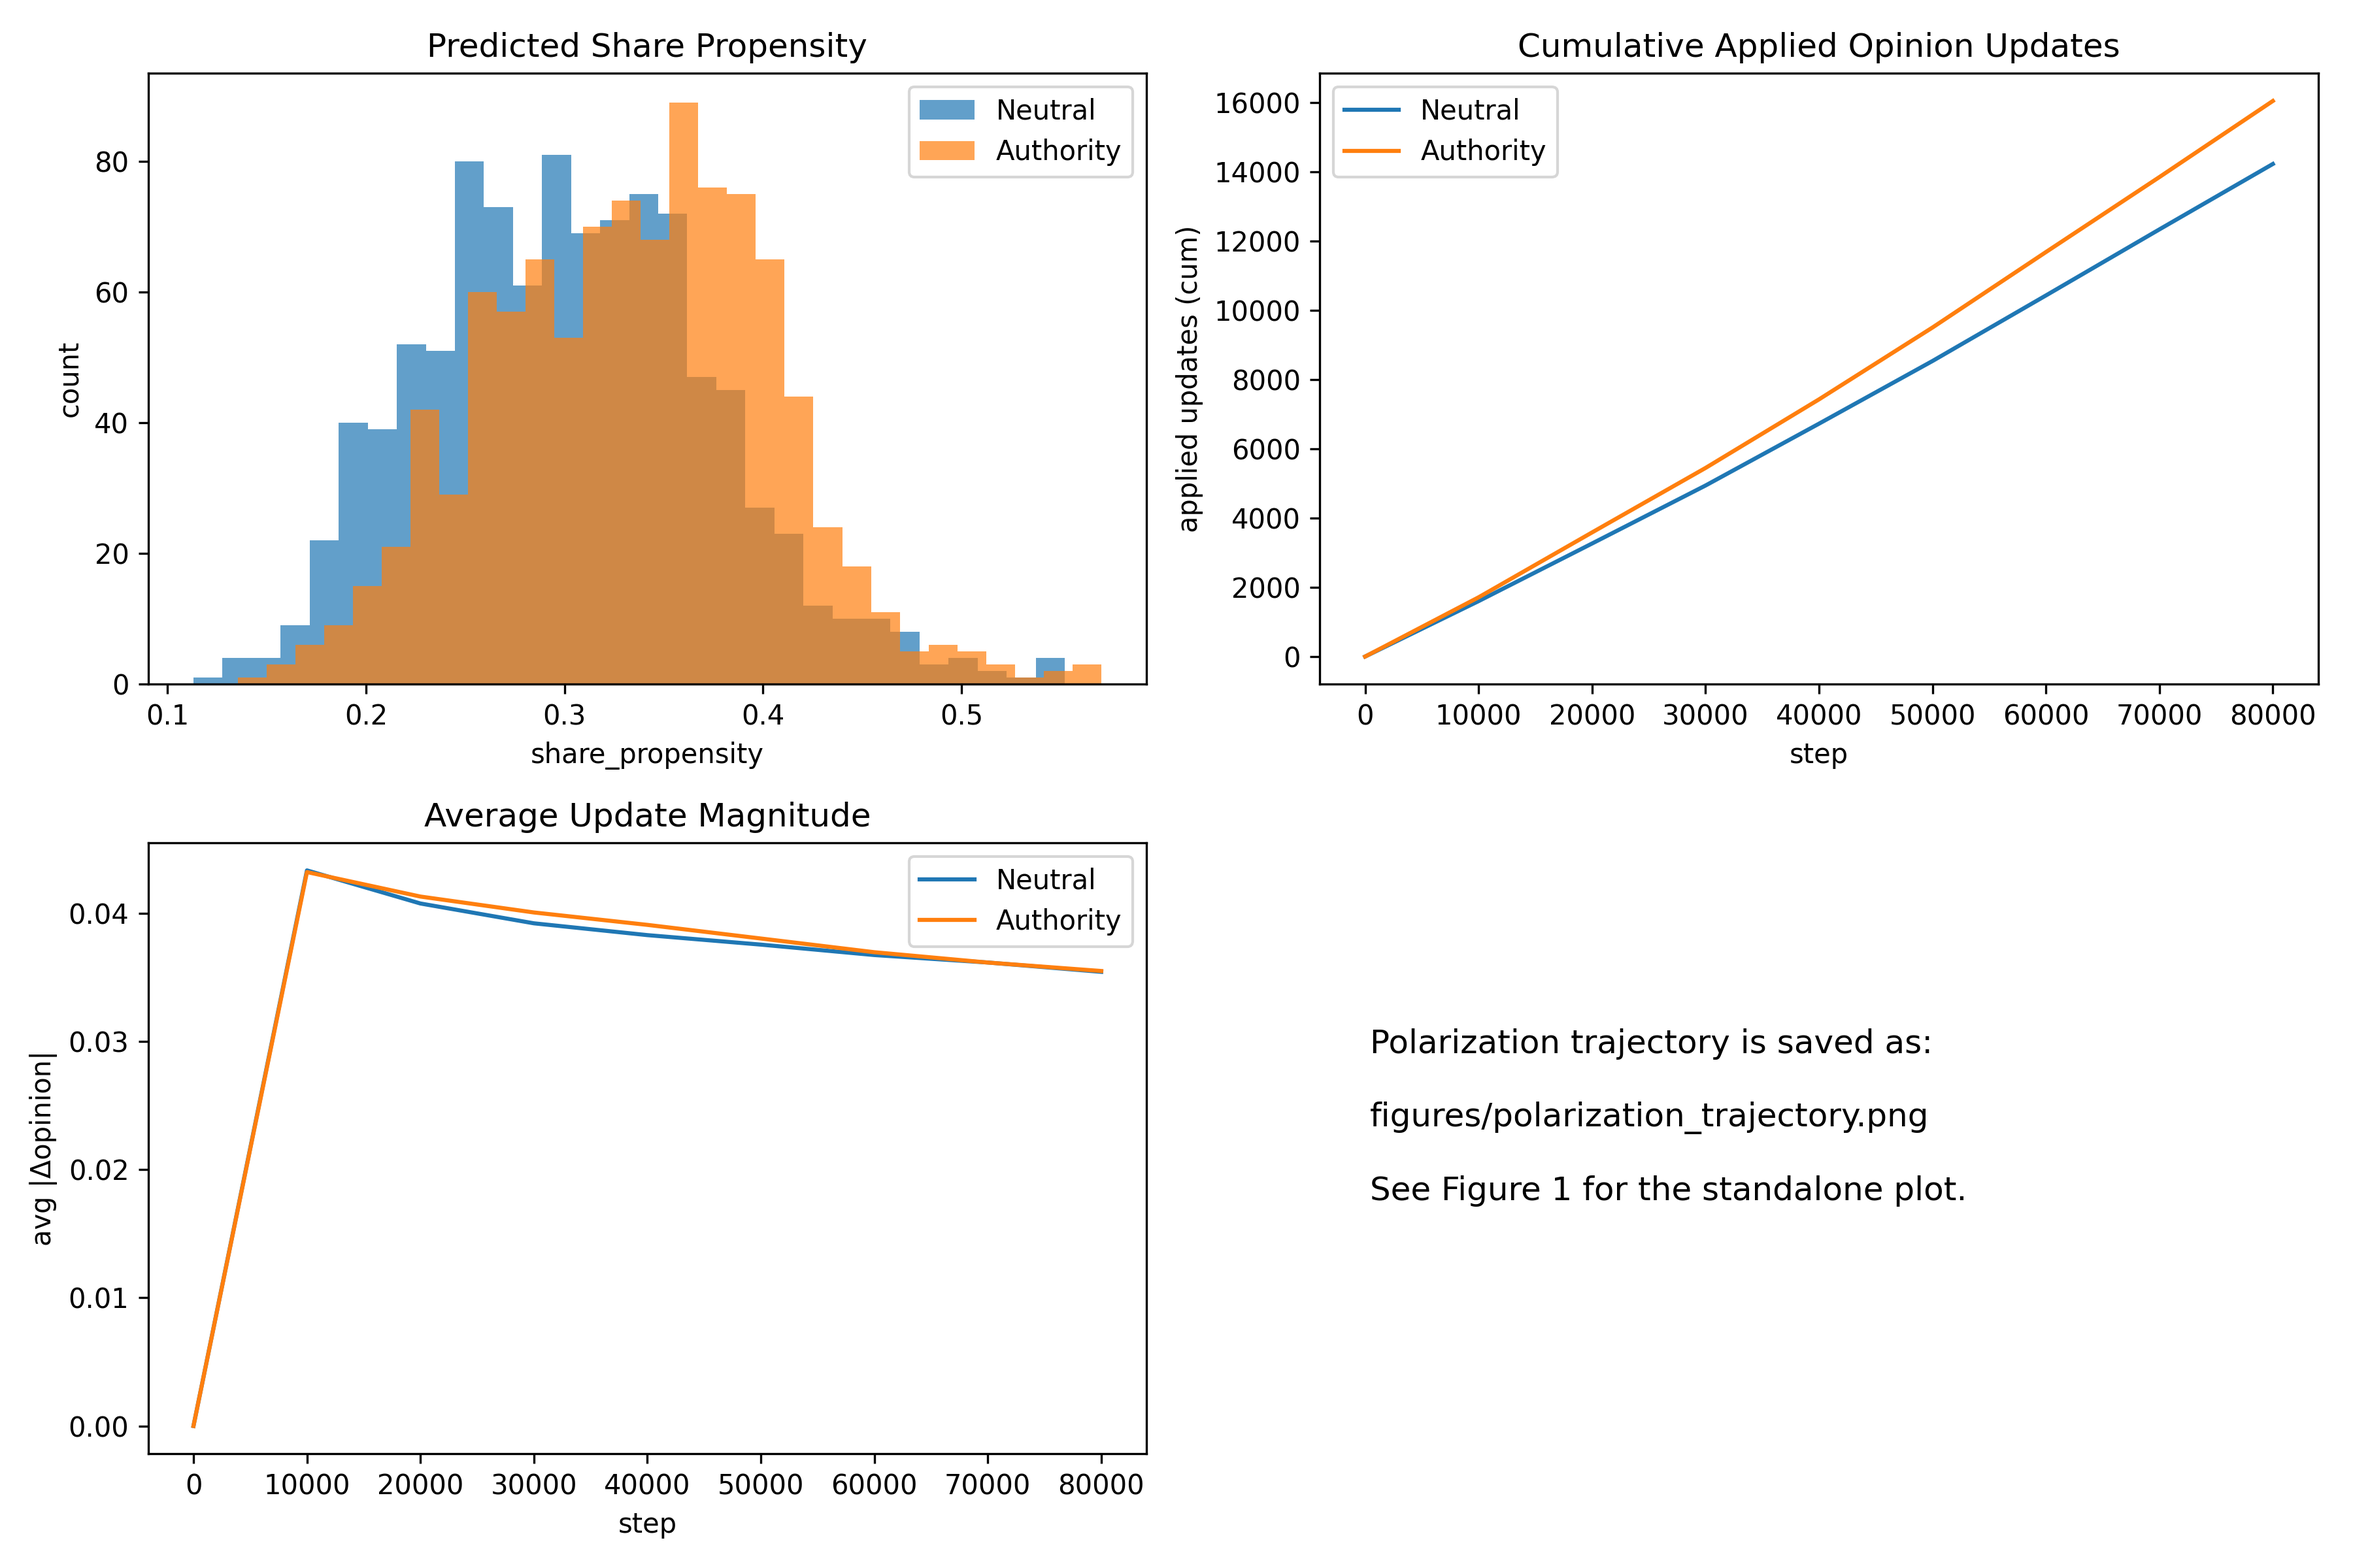
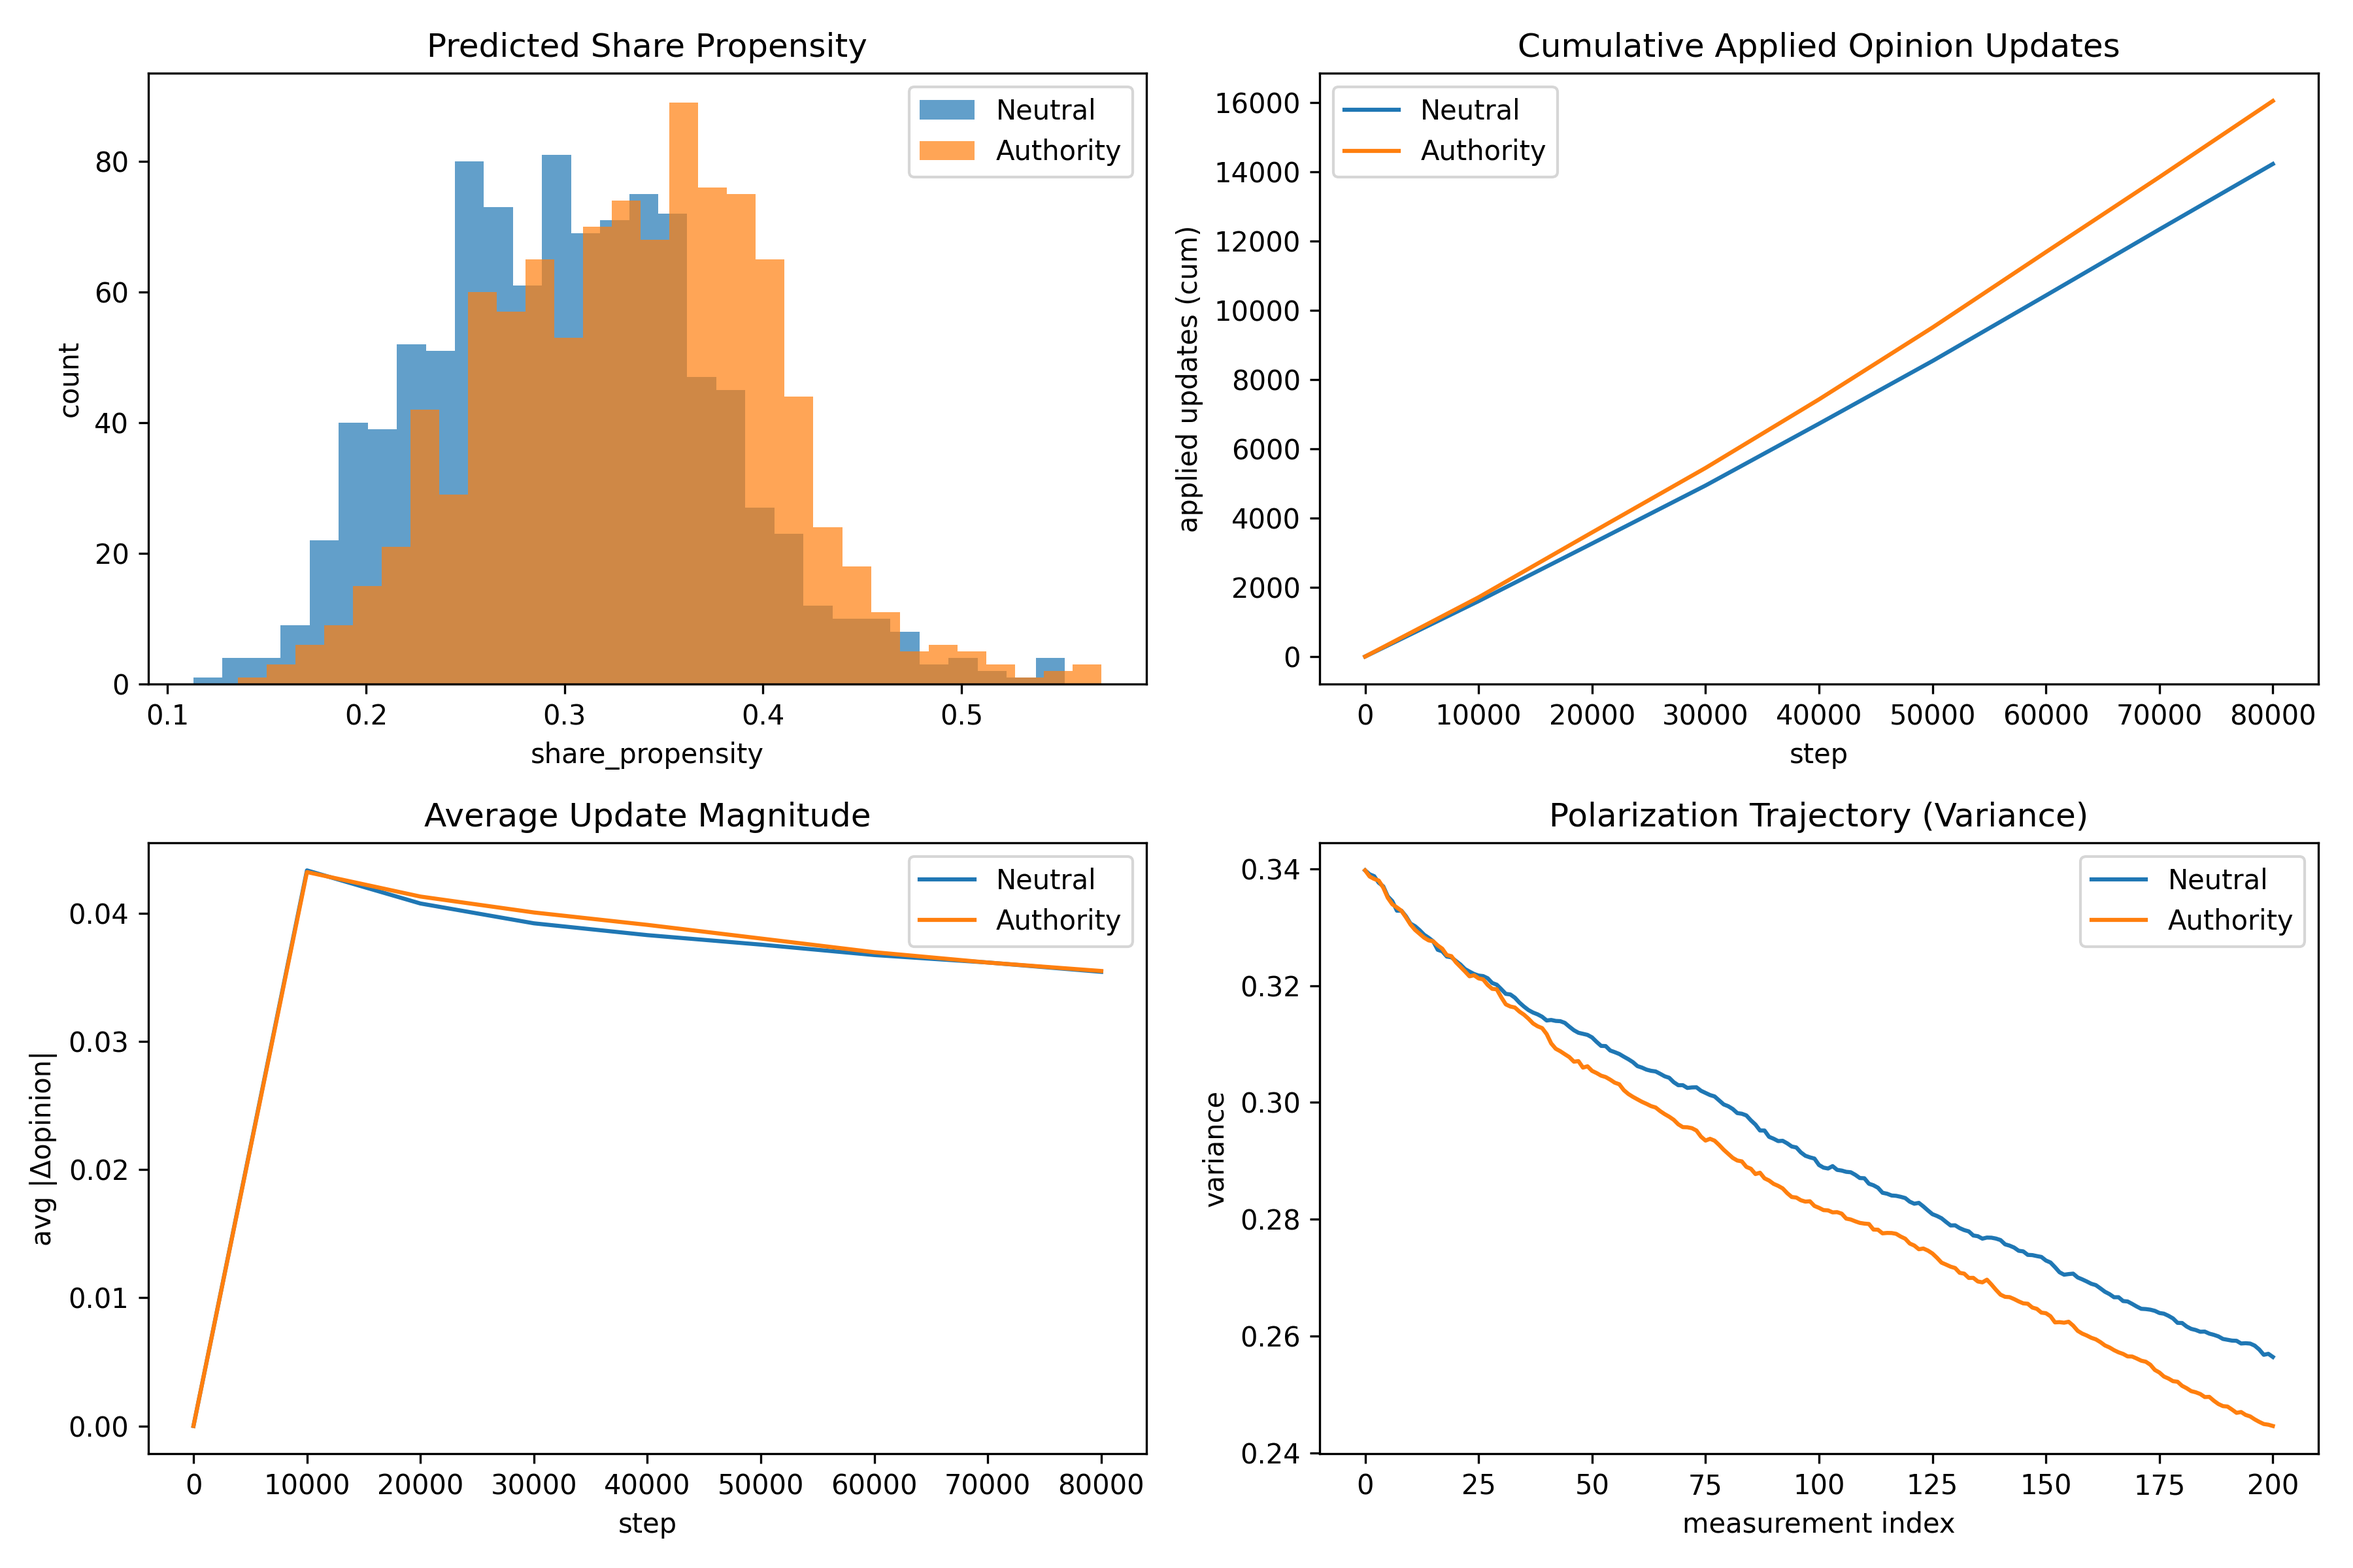
Unify results visualization and update auto-generated README

diff --git a/main.py b/main.py
@@ -64,26 +64,13 @@ def save_figures(
 ):
     os.makedirs("figures", exist_ok=True)
 
-    # -----------------------------
-    # Figure 1: Polarization trajectory (standalone)
-    # -----------------------------
-    plt.figure(figsize=(10, 5))
-    plt.plot(pol_neu, label="Neutral", linewidth=2)
-    plt.plot(pol_auth, label="Authority", linewidth=2)
-    plt.xlabel("Measurement step")
-    plt.ylabel("Polarization (variance)")
-    plt.title("Opinion Variance Over Time (Route A: Thesis-Trained Sharing)")
-    plt.legend()
-    plt.tight_layout()
-    plt.savefig("figures/polarization_trajectory.png", dpi=300)
-    plt.close()
-
-    # -----------------------------
-    # Figure 2: Mechanism diagnostics (multi-panel)
-    # -----------------------------
+    # ---------------------------------------------------------
+    # Single figure only: 2x2 mechanism diagnostics
+    # Panel D contains polarization trajectory (no standalone plot)
+    # ---------------------------------------------------------
     plt.figure(figsize=(12, 8))
 
-    # Panel A: share propensity distributions (always available)
+    # Panel A: share propensity distributions
     ax1 = plt.subplot(2, 2, 1)
     ax1.hist(shares_neu, bins=30, alpha=0.7, label="Neutral")
     ax1.hist(shares_auth, bins=30, alpha=0.7, label="Authority")
@@ -144,18 +131,14 @@ def save_figures(
             va="center",
         )
 
-    # Panel D: avoid duplicating Figure 1
+    # Panel D: Polarization trajectory (variance)
     ax4 = plt.subplot(2, 2, 4)
-    ax4.axis("off")
-    ax4.text(
-        0.05,
-        0.55,
-        "Polarization trajectory is saved as:\n\n"
-        "figures/polarization_trajectory.png\n\n"
-        "See Figure 1 for the standalone plot.",
-        fontsize=12,
-        va="center",
-    )
+    ax4.plot(pol_neu, label="Neutral")
+    ax4.plot(pol_auth, label="Authority")
+    ax4.set_title("Polarization Trajectory (Variance)")
+    ax4.set_xlabel("measurement index")
+    ax4.set_ylabel("variance")
+    ax4.legend()
 
     plt.tight_layout()
     plt.savefig("figures/mechanism_diagnostics.png", dpi=300)
@@ -222,7 +205,7 @@ def main():
     )
     G_auth, pol_auth, _, ops_auth, diag_auth = unpack_run(res_auth)
 
-    # Save figures for README
+    # Save the single combined figure
     save_figures(
         pol_neu,
         pol_auth,
@@ -254,14 +237,13 @@ def main():
         pol_auth=pol_auth,
         base_params=base_params,
         artifacts=ReadmeArtifacts(
-            fig_traj="figures/polarization_trajectory.png",
             fig_mech="figures/mechanism_diagnostics.png",
             animation="figures/authority_animation.gif",
         ),
         outpath="README.md",
     )
 
-    print("[INFO] Done. Figures saved in ./figures, GIF saved, and README.md updated.")
+    print("[INFO] Done. Figure saved in ./figures, GIF saved, and README.md updated.")
 
 
 if __name__ == "__main__":

diff --git a/utils/autoreadme.py b/utils/autoreadme.py
@@ -14,7 +14,6 @@ import numpy as np
 
 @dataclass(frozen=True)
 class ReadmeArtifacts:
-    fig_traj: str = "figures/polarization_trajectory.png"
     fig_mech: str = "figures/mechanism_diagnostics.png"
     animation: str = "figures/authority_animation.gif"
 
@@ -75,10 +74,8 @@ def write_professional_readme(
 
     timestamp = datetime.now(timezone.utc).strftime("%Y-%m-%d %H:%M UTC")
 
-    # Keep the parameters block readable + stable
     params_json = json.dumps(base_params, indent=2)
 
-    # Note: base_params["use_nn"] refers to *influence NN* (Route B), not the thesis share model.
     use_nn_flag = bool(base_params.get("use_nn", False))
     influence_line = "ON" if use_nn_flag else "OFF"
 
@@ -143,9 +140,7 @@ def write_professional_readme(
         f"**End-of-simulation difference (Authority − Neutral): {delta_end:+.4f}**\n\n"
         "---\n\n"
         "## Results Visualization\n\n"
-        "### Polarization trajectory\n"
-        f"![Polarization trajectory]({artifacts.fig_traj})\n\n"
-        "### Mechanism diagnostics\n"
+        "The figure below summarizes the mechanism and outcomes (including the polarization trajectory as Panel D).\n\n"
         f"![Mechanism diagnostics]({artifacts.fig_mech})\n\n"
         "---\n\n"
         "## Network Dynamics\n\n"

diff --git a/README.md b/README.md
@@ -97,10 +97,8 @@ Neutral and Authority runs share:
 
 ## Results Visualization
 
-### Polarization trajectory
-![Polarization trajectory](figures/polarization_trajectory.png)
+The figure below summarizes the mechanism and outcomes (including the polarization trajectory as Panel D).
 
-### Mechanism diagnostics
 ![Mechanism diagnostics](figures/mechanism_diagnostics.png)
 
 ---
@@ -124,7 +122,7 @@ A natural next step is multi-seed replication and uncertainty quantification (e.
 
 This README was **automatically generated** from the latest simulation run.
 
-**Timestamp:** 2025-12-26 14:49 UTC
+**Timestamp:** 2025-12-26 15:26 UTC
 
 ---
 
